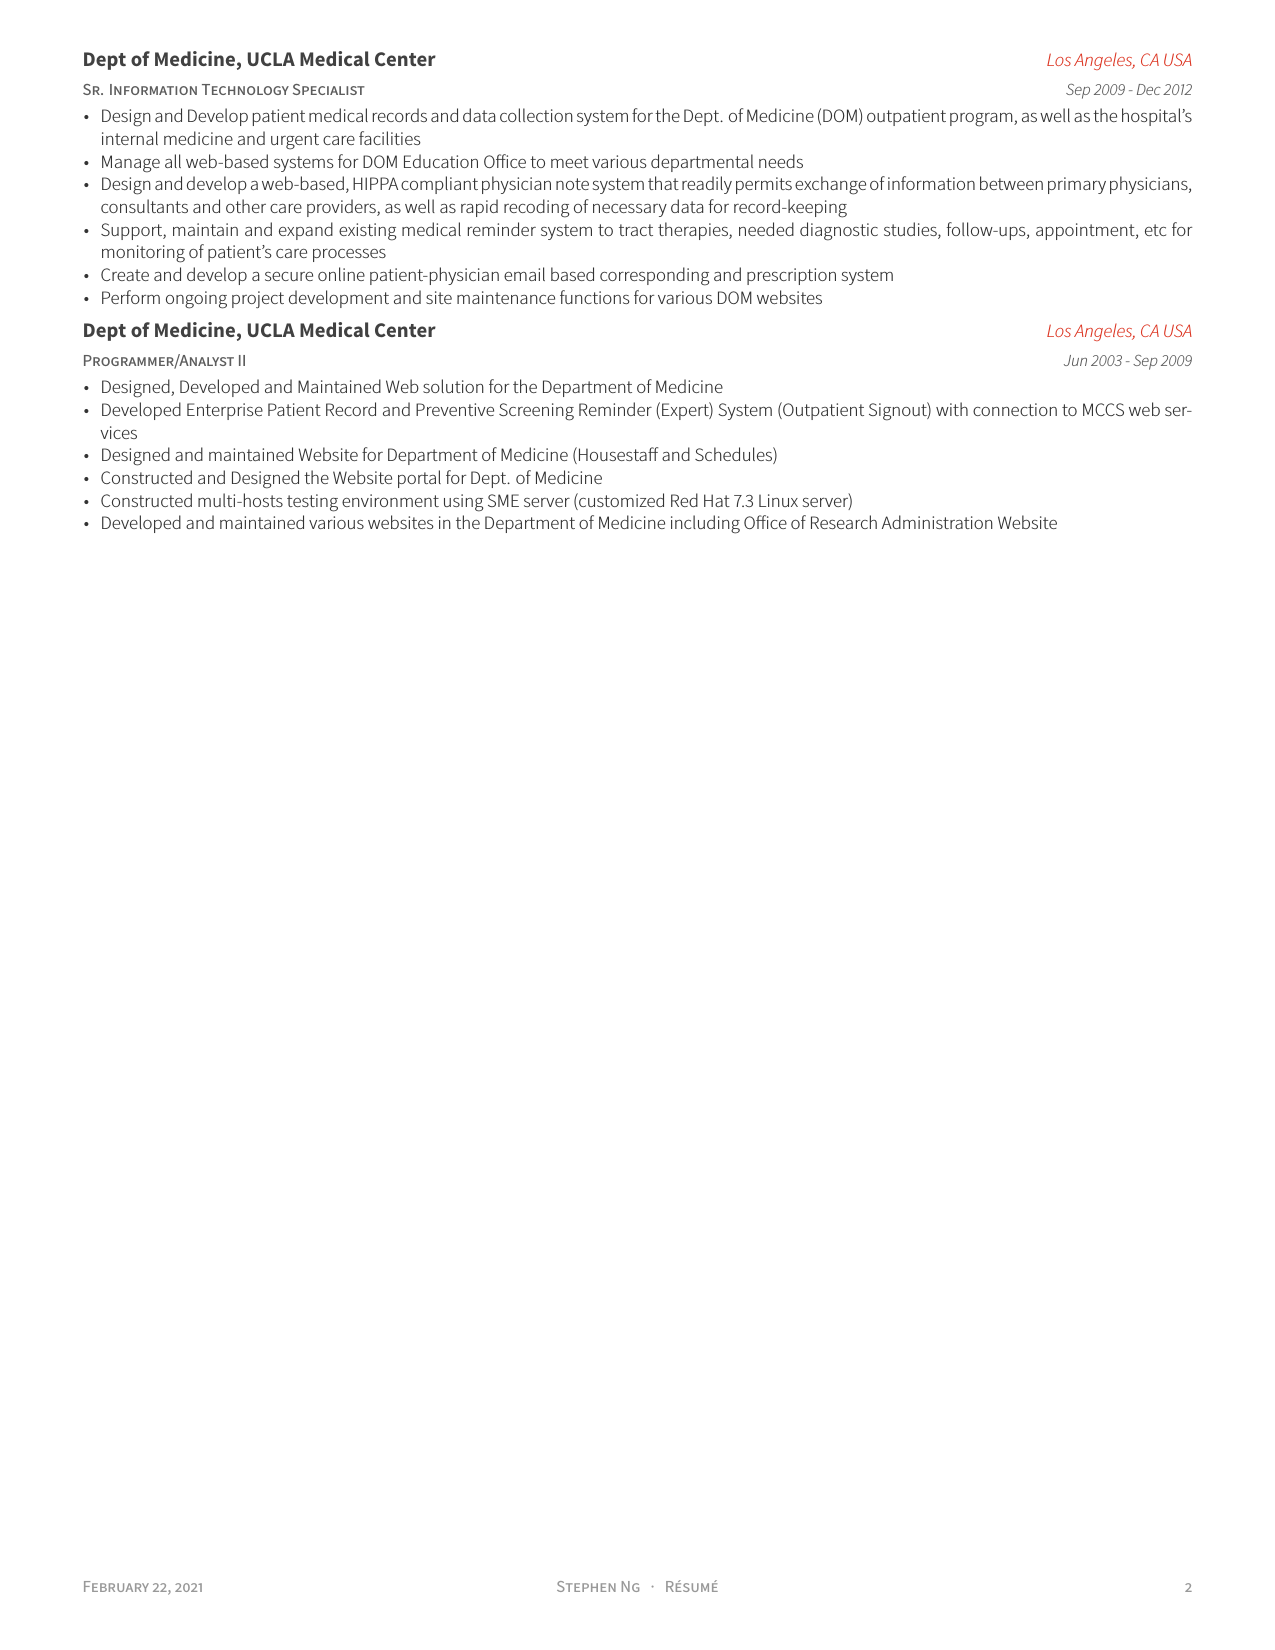
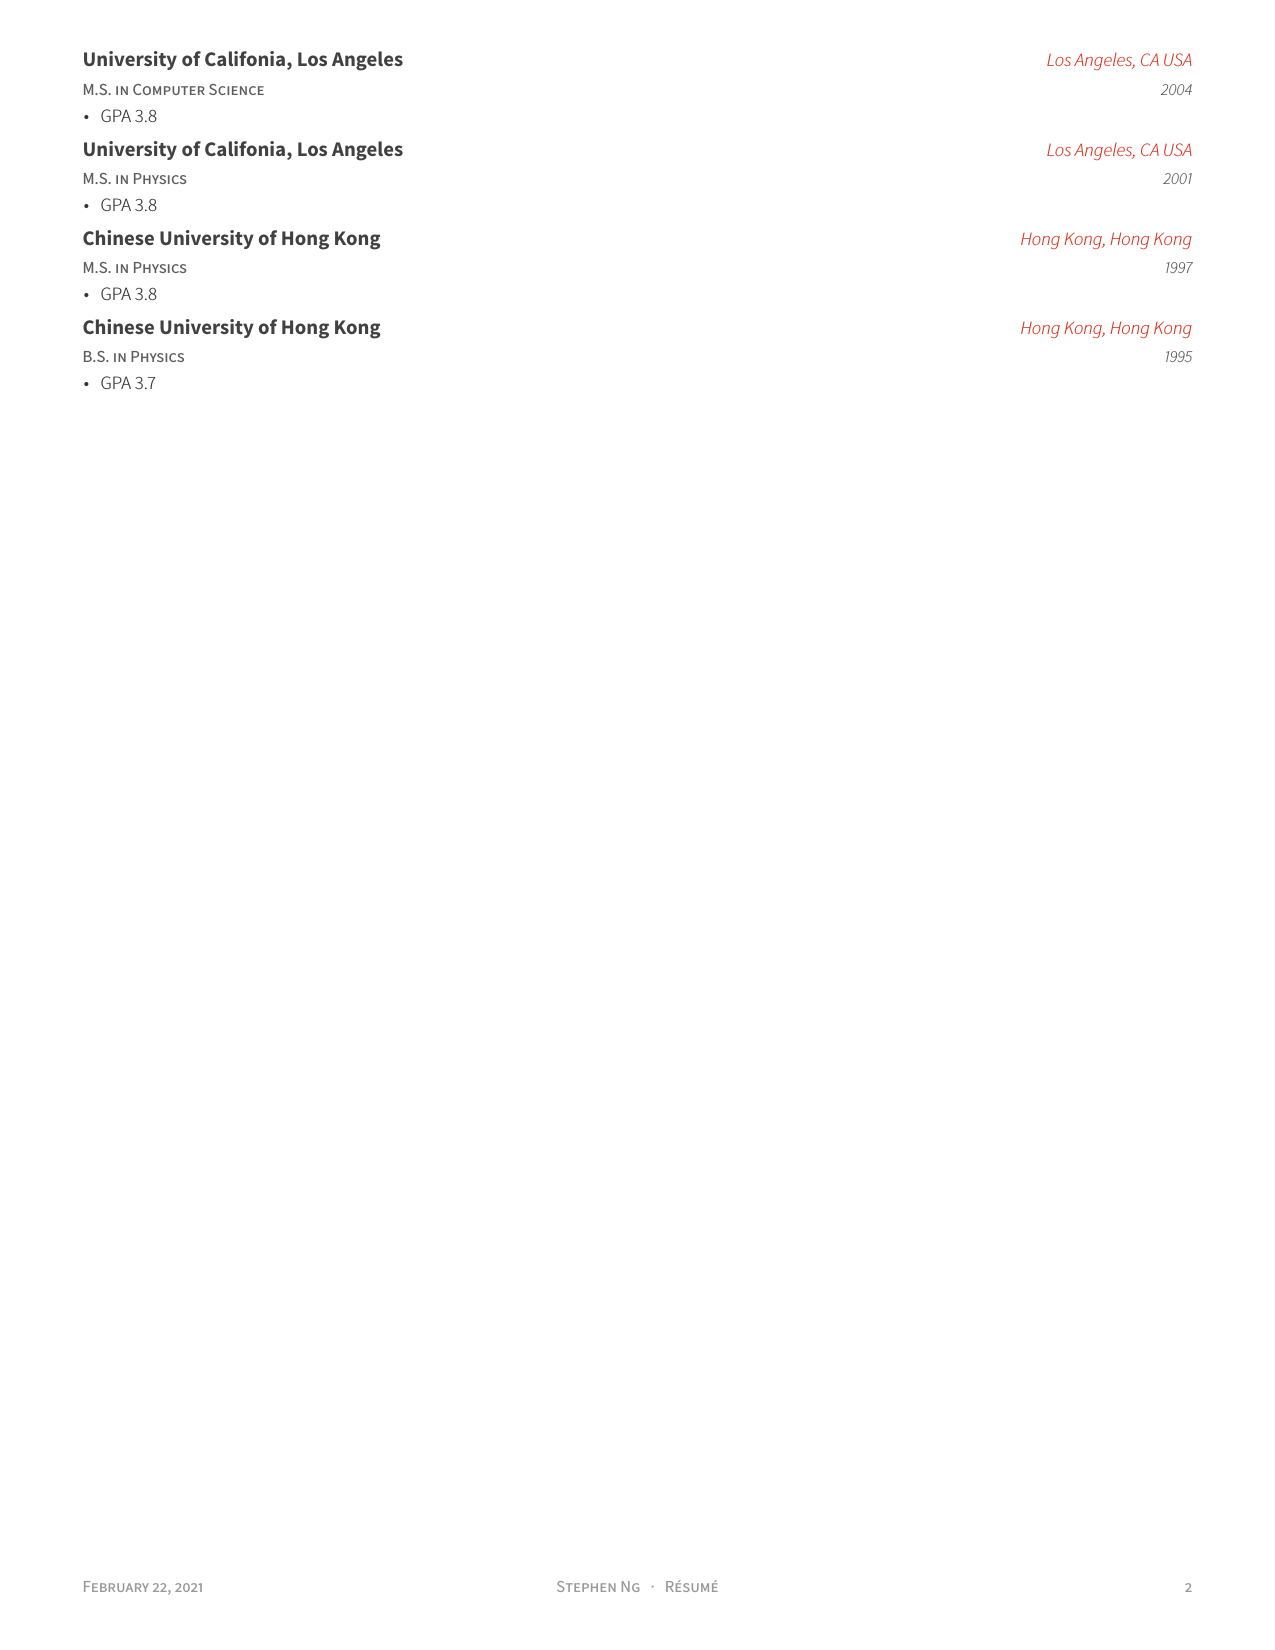
switch order to put experience first

diff --git a/myresume/resume.tex b/myresume/resume.tex
@@ -91,10 +91,9 @@
 %	CV/RESUME CONTENT
 %	Each section is imported separately, open each file in turn to modify content
 %-------------------------------------------------------------------------------
-\input{resume/education.tex}
 \input{resume/skill.tex}
-% \input{resume/education.tex}
 \input{resume/experience.tex}
+\input{resume/education.tex}
 %\input{resume/honors.tex}
 %\input{resume/presentation.tex}
 %\input{resume/writing.tex}
